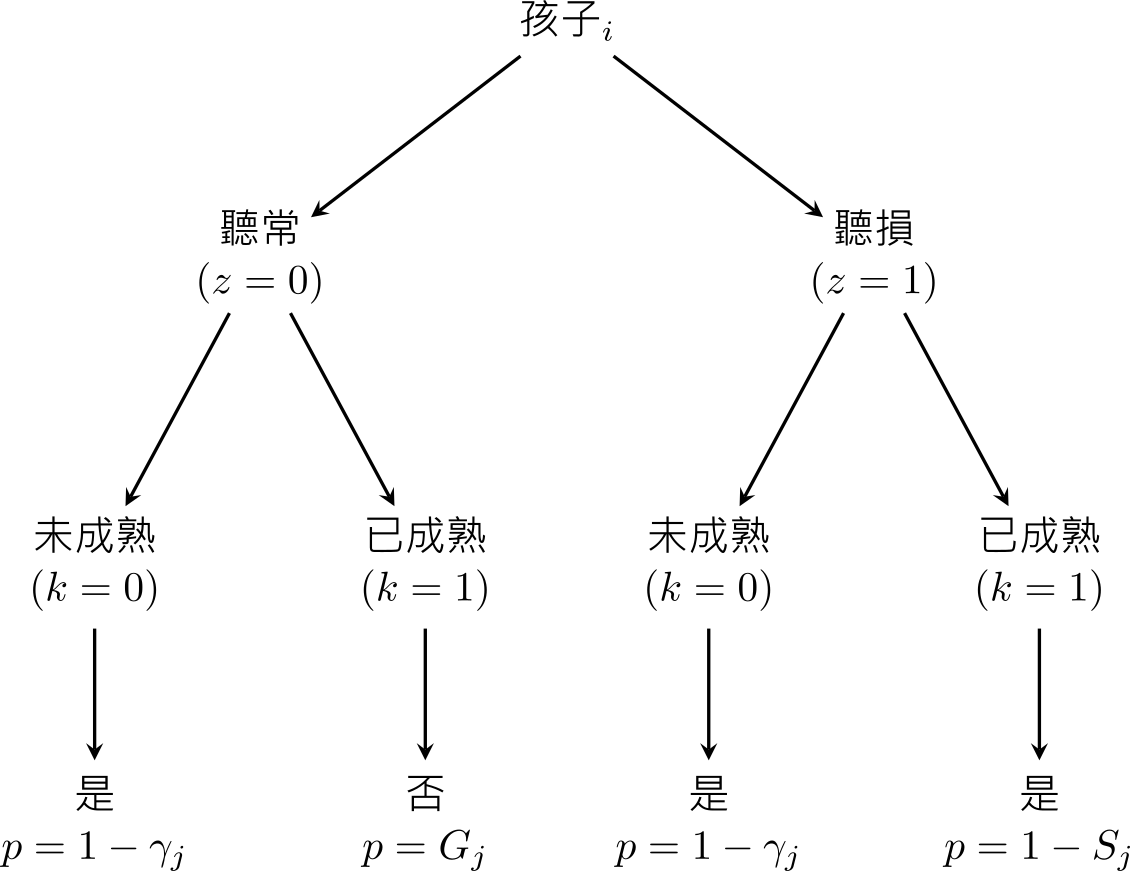
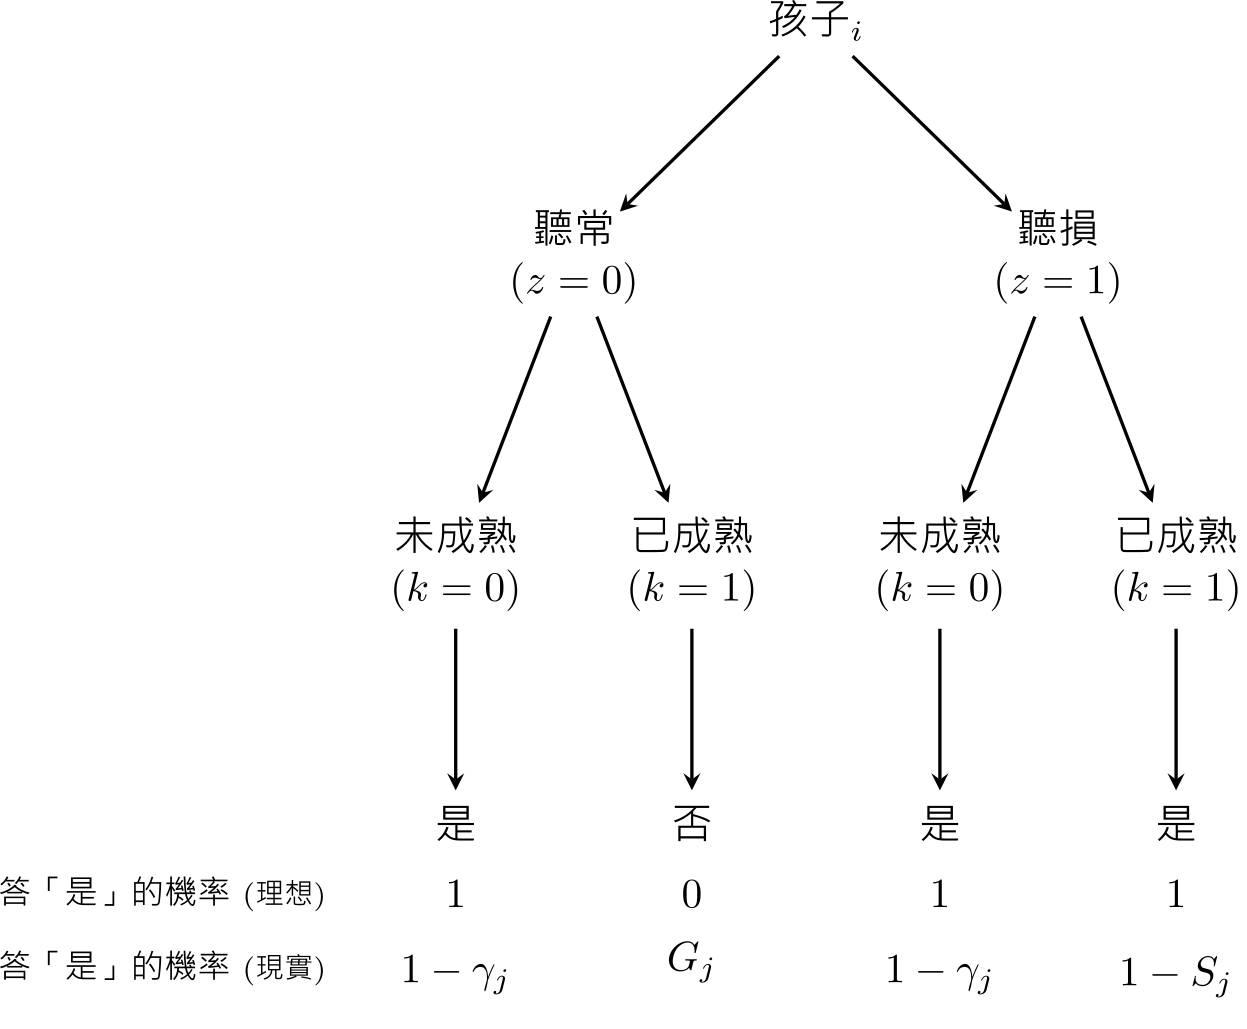
update

diff --git a/index.html b/index.html
@@ -144,7 +144,7 @@ https://yihui.org/en/2023/10/html-article/
 <header id="title-block-header">
 <h1 class="title">Some Personal TeX Snippets</h1>
 <p class="author">Yongfu Liao</p>
-<p class="date">September 20, 2024</p>
+<p class="date">September 23, 2024</p>
 </header>
 <nav id="TOC" role="doc-toc">
 <ul>

diff --git a/tikz/tree4-2.tex b/tikz/tree4-2.tex
@@ -1,7 +1,7 @@
 \documentclass[preview,border=0]{standalone}
 \usepackage{fontspec}
 \usepackage{xeCJK}
-\usepackage[paperheight=20cm,paperwidth=14cm]{geometry}
+\usepackage[paperheight=20cm,paperwidth=16cm]{geometry}
 \usepackage{tikz}
 \usetikzlibrary{arrows.meta, positioning,shapes.multipart}
 \setCJKmainfont{微軟正黑體}
@@ -26,8 +26,8 @@
     level distance=2cm,
     U/.style={circle, draw=white, inner sep=-2pt, outer sep=-1pt, minimum size=6mm},
     % level 2/.style ={level distance=3cm},
-  level 1/.style={sibling distance=5.2cm},
-  level 2/.style={sibling distance=2.8cm,level distance=2.6cm},
+  level 1/.style={sibling distance=4.1cm},
+  level 2/.style={sibling distance=2cm,level distance=2.6cm},
   level 3/.style={sibling distance=1.5cm,level distance=2.2cm}
 ]
 
@@ -35,22 +35,41 @@
 \node (R) {$\textrm{孩子}_i$}
   child { node[U]{聽常 \\ ($z = 0$)}
     child { node[U]{未成熟 \\ ($k = 0$)}  edge from parent[->] 
-        child{ node{是 \\ $p = 1 - \gamma_j$} edge from parent[->] }
+        child{ node(A){是} edge from parent[->] }
     }
     child { node[U]{已成熟 \\ ($k = 1$)}  edge from parent[->] 
-        child{ node{否 \\ $p = G_j$} edge from parent[->] }
+        child{ node(B){否} edge from parent[->] }
     }
     edge from parent[->]
   }
   child { node[U]{聽損 \\ ($z = 1$)}
     child { node[U]{未成熟 \\ ($k = 0$)}  edge from parent[->] 
-        child{ node{是 \\ $p = 1 - \gamma_j$} edge from parent[->] }
+        child{ node(C){是} edge from parent[->] }
     }
     child { node[U]{已成熟 \\ ($k = 1$)}  edge from parent[->] 
-        child{ node{是 \\ $p = 1 - S_j$} edge from parent[->] }
+        child{ node(D){是} edge from parent[->] }
     }
     edge from parent[->] 
   };
+
+  	% Nodes and their relative positions
+    \node[U] (a) [below = .05 of A] {$1$};
+    \node[U] (aa) [below = .05 of a] {$1 - \gamma_j$};
+
+    \node[U] (b) [below = .05 of B] {$0$};
+    \node[U] (bb) [below = .05 of b] {$G_j$};
+
+    \node[U] (c) [below = .05 of C] {$1$};
+    \node[U] (cc) [below = .05 of c] {$1 - \gamma_j$};
+
+    \node[U] (d) [below = .05 of D] {$1$};
+    \node[U] (dd) [below = .05 of d] {$1 - S_j$};
+
+
+    \node[] (T1) [left = .7 of a]   {\footnotesize 答「是」的機率 \scriptsize (理想)};
+    \node[] (T2) [below = .07 of T1] {\footnotesize 答「是」的機率 \scriptsize (現實)};
+
+
 \end{tikzpicture}
 
 \end{document}
